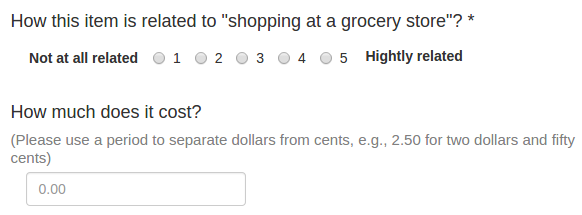
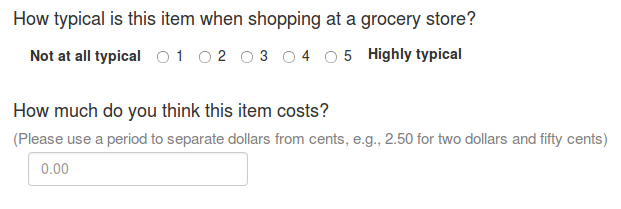
fix q texts

diff --git a/css/custom.css b/css/custom.css
@@ -41,6 +41,10 @@ strong{
 	margin-left:50px;
 }
 
+.res{
+	margin-right:30px;
+}
+
 .font-1{
 	font-size: 18px;
 }

diff --git a/application/views/pages/survey.php b/application/views/pages/survey.php
@@ -144,11 +144,11 @@
 				<br><br>
 				
 				<fieldset>
-				<h4>How this item is related to "shopping at a grocery store"?</h4>
+				<h4>How typical is this item when shopping at a grocery store?</h4>
 				
 				<!-- Multiple Radios (inline) -->
 				<div class="form-group">
-				  <label class="col-md-3 control-label comeLeft" for="q1_1">Not at all related</label>
+				  <label class="col-md-3 control-label comeLeft" for="q1_1">Not at all typical</label>
 				  <div class="mgRight0"> 
 				    <label class="radio-inline" for="radios-0">
 				      <input name="q1_1" id="radios-0" value="1" required type="radio">
@@ -171,12 +171,12 @@
 				      5
 				    </label>
 				    <div id="comeDown">
-				    	<strong>Hightly related</strong>
+				    	<strong>Highly typical</strong>
 				    </div>
 				    <br><br>
 				  </div>			  
 				</div>
-				 <h4>How much does it cost?<h4> 
+				 <h4>How much do you think this item costs?<h4> 
 				<!-- Text input-->
 				<span class="graySmall">(Please use a period to separate dollars from cents, e.g., 2.50 for two dollars and fifty cents)</span>
 				  <br>

diff --git a/application/views/pages/results.php b/application/views/pages/results.php
@@ -29,4 +29,5 @@
 		echo "<table>";
 		echo "</div>";
 ?>	
+<br>
 <input value="Export as CSV" type="button" onclick="$('#listResults').table2CSV({header:['Block Number','Item Name','Answer q1','Answer q2','Gender','Years in School','Years living in Canada','Grocery shopping frequency','Last shop']})">
